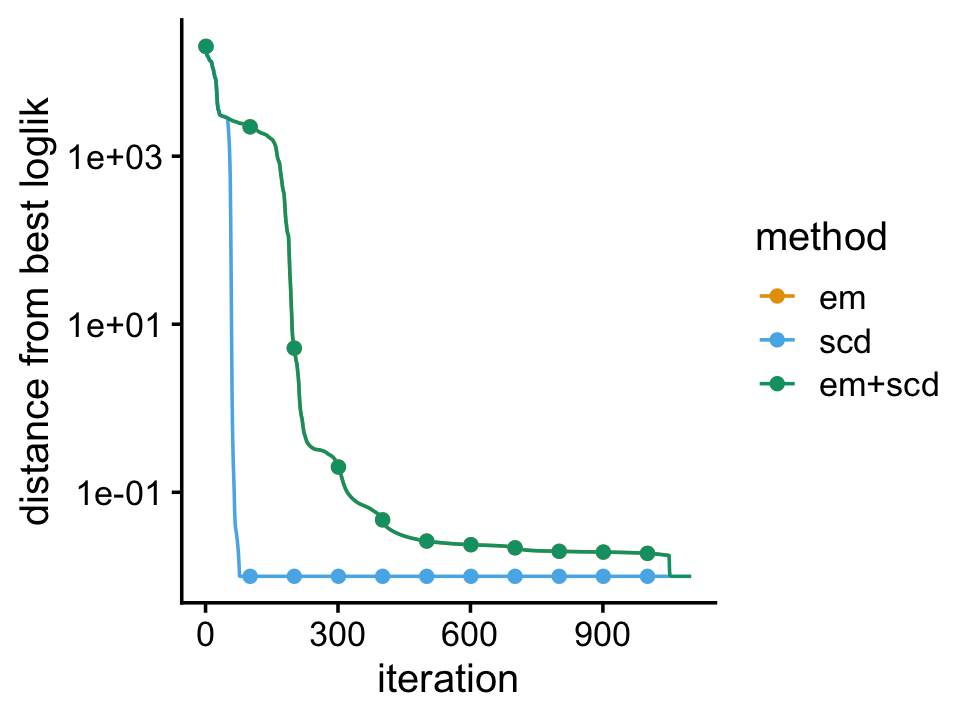
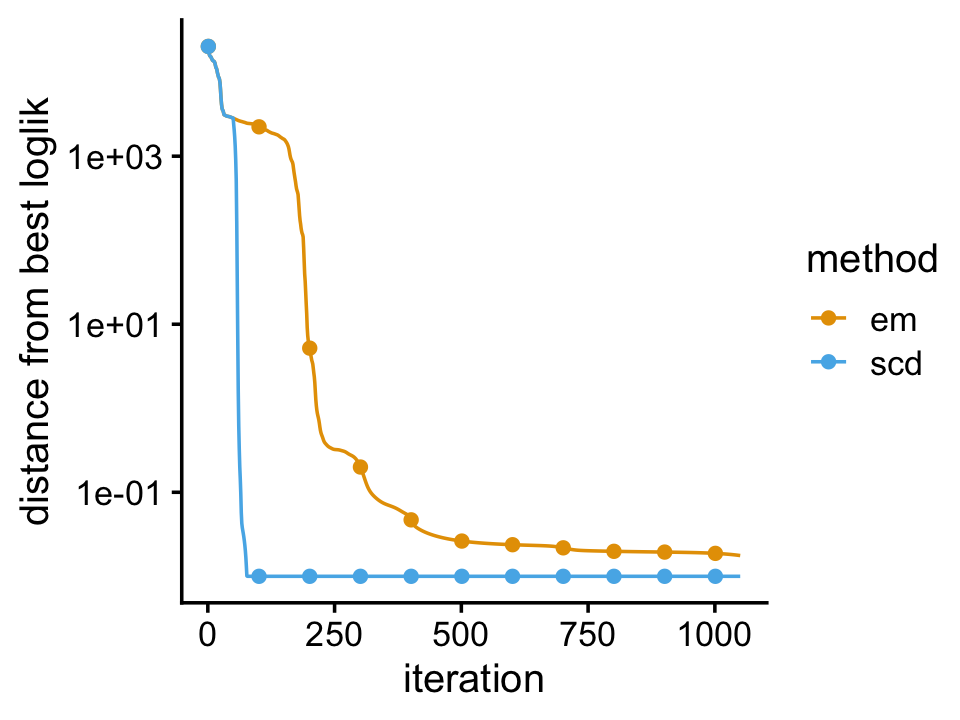
Revised the simulations slightly.

diff --git a/docs/smallsim.html b/docs/smallsim.html
@@ -414,16 +414,16 @@ This reproducible <a href="http://rmarkdown.rstudio.com">R Markdown</a> analysis
 <div class="panel panel-default">
 <div class="panel-heading">
 <p class="panel-title">
-<a data-toggle="collapse" data-parent="#workflowr-checks" href="#strongRepositoryversionstrongahrefhttpsgithubcomstephenslabfastTopicsexperimentstreecfc44e5b6578186f8708bea18d2139da12d49c40targetblankcfc44e5a"> <span class="glyphicon glyphicon-ok text-success" aria-hidden="true"></span> <strong>Repository version:</strong> <a href="https://github.com/stephenslab/fastTopics-experiments/tree/cfc44e5b6578186f8708bea18d2139da12d49c40" target="_blank">cfc44e5</a> </a>
+<a data-toggle="collapse" data-parent="#workflowr-checks" href="#strongRepositoryversionstrongahrefhttpsgithubcomstephenslabfastTopicsexperimentstree1a59342981f0e27b6ff1414acb0dd56739cd13fdtargetblank1a59342a"> <span class="glyphicon glyphicon-ok text-success" aria-hidden="true"></span> <strong>Repository version:</strong> <a href="https://github.com/stephenslab/fastTopics-experiments/tree/1a59342981f0e27b6ff1414acb0dd56739cd13fd" target="_blank">1a59342</a> </a>
 </p>
 </div>
[2 lines of base64/hex data omitted]
 <div class="panel-body">
 <p>
 Great! You are using Git for version control. Tracking code development and connecting the code version to the results is critical for reproducibility.
 </p>
 <p>
-The results in this page were generated with repository version <a href="https://github.com/stephenslab/fastTopics-experiments/tree/cfc44e5b6578186f8708bea18d2139da12d49c40" target="_blank">cfc44e5</a>. See the <em>Past versions</em> tab to see a history of the changes made to the R Markdown and HTML files.
+The results in this page were generated with repository version <a href="https://github.com/stephenslab/fastTopics-experiments/tree/1a59342981f0e27b6ff1414acb0dd56739cd13fd" target="_blank">1a59342</a>. See the <em>Past versions</em> tab to see a history of the changes made to the R Markdown and HTML files.
 </p>
 <p>
 Note that you need to be careful to ensure that all relevant files for the analysis have been committed to Git prior to generating the results (you can use <code>wflow_publish</code> or <code>wflow_git_commit</code>). workflowr only checks the R Markdown file, but you know if there are other scripts or data files that it depends on. Below is the status of the Git repository when the results were generated:
@@ -471,6 +471,40 @@ Message
 </tr>
 </thead>
 <tbody>
+<tr>
+<td>
+Rmd
+</td>
+<td>
+<a href="https://github.com/stephenslab/fastTopics-experiments/blob/1a59342981f0e27b6ff1414acb0dd56739cd13fd/analysis/smallsim.Rmd" target="_blank">1a59342</a>
+</td>
+<td>
+Peter Carbonetto
+</td>
+<td>
+2021-03-05
+</td>
+<td>
+workflowr::wflow_publish(“smallsim.Rmd”)
+</td>
+</tr>
+<tr>
+<td>
+html
+</td>
+<td>
+<a href="https://rawcdn.githack.com/stephenslab/fastTopics-experiments/ffad4713d65648d04dd584a5153ef38fc195ed81/docs/smallsim.html" target="_blank">ffad471</a>
+</td>
+<td>
+Peter Carbonetto
+</td>
+<td>
+2021-03-05
+</td>
+<td>
+Build site.
+</td>
+</tr>
 <tr>
 <td>
 Rmd
@@ -612,21 +646,55 @@ X &lt;- simulate_multinom_counts(L,F,s)</code></pre>
 <p><em>Add text here.</em></p>
 <pre class="r"><code>fit2 &lt;- fit_poisson_nmf(X,fit0 = fit0,numiter = 1000,method = &quot;scd&quot;,
                         control = list(extrapolate = FALSE,numiter = 4))</code></pre>
-<pre class="r"><code>fit3 &lt;- fit_poisson_nmf(X,fit0 = fit1,numiter = 50,method = &quot;scd&quot;,
-                        control = list(extrapolate = FALSE,numiter = 4))</code></pre>
 <p><em>Add text here.</em></p>
 <pre class="r"><code>fit1 &lt;- poisson2multinom(fit1)
 fit2 &lt;- poisson2multinom(fit2)
-fit3 &lt;- poisson2multinom(fit3)
-plot_progress(list(em = fit1,scd = fit2,&quot;em+scd&quot; = fit3),
-              x = &quot;iter&quot;,add.point.every = 100)</code></pre>
+plot_progress(list(em = fit1,scd = fit2),x = &quot;iter&quot;,add.point.every = 100)</code></pre>
 <p><img src="figure/smallsim.Rmd/plot-progress-1-1.png" width="480" style="display: block; margin: auto;" /></p>
+<p>
+<button type="button" class="btn btn-default btn-xs btn-workflowr btn-workflowr-fig" data-toggle="collapse" data-target="#fig-plot-progress-1-1">
+Past versions of plot-progress-1-1.png
+</button>
+</p>
+<div id="fig-plot-progress-1-1" class="collapse">
+<div class="table-responsive">
+<table class="table table-condensed table-hover">
+<thead>
+<tr>
+<th>
+Version
+</th>
+<th>
+Author
+</th>
+<th>
+Date
+</th>
+</tr>
+</thead>
+<tbody>
+<tr>
+<td>
+<a href="https://github.com/stephenslab/fastTopics-experiments/blob/ffad4713d65648d04dd584a5153ef38fc195ed81/docs/figure/smallsim.Rmd/plot-progress-1-1.png" target="_blank">ffad471</a>
+</td>
+<td>
+Peter Carbonetto
+</td>
+<td>
+2021-03-05
+</td>
+</tr>
+</tbody>
+</table>
+</div>
+</div>
 </div>
 <div id="correlated-topics-scenario" class="section level2">
 <h2>Correlated topics scenario</h2>
 <p><em>Add text here.</em></p>
-<pre class="r"><code>S[5,6] &lt;- 9
-S[6,5] &lt;- 9
+<pre class="r"><code>set.seed(1)
+S[5,6] &lt;- 10
+S[6,5] &lt;- 10
 L &lt;- simulate_loadings(n,k,S)
 X &lt;- simulate_multinom_counts(L,F,s)
 X &lt;- X[,colSums(X &gt; 0) &gt; 0]</code></pre>
@@ -634,19 +702,58 @@ X &lt;- X[,colSums(X &gt; 0) &gt; 0]</code></pre>
 <p><em>Add text here.</em></p>
 <pre class="r"><code>fit0 &lt;- fit_poisson_nmf(X,k,numiter = 50,method = &quot;em&quot;,
                         control = list(extrapolate = FALSE,numiter = 4))
-fit1 &lt;- fit_poisson_nmf(X,fit0 = fit0,numiter = 1000,method = &quot;em&quot;,
+fit1 &lt;- fit_poisson_nmf(X,fit0 = fit0,numiter = 800,method = &quot;em&quot;,
                         control = list(extrapolate = FALSE,numiter = 4))
 fit2 &lt;- fit_poisson_nmf(X,fit0 = fit0,numiter = 1000,method = &quot;scd&quot;,
                         control = list(extrapolate = FALSE,numiter = 4))
-fit3 &lt;- fit_poisson_nmf(X,fit0 = fit1,numiter = 50,method = &quot;scd&quot;,
+fit3 &lt;- fit_poisson_nmf(X,fit0 = fit1,numiter = 200,method = &quot;scd&quot;,
+                        control = list(extrapolate = FALSE,numiter = 4))
+fit1 &lt;- fit_poisson_nmf(X,fit0 = fit1,numiter = 200,method = &quot;scd&quot;,
                         control = list(extrapolate = FALSE,numiter = 4))</code></pre>
 <p><em>Add text here.</em></p>
 <pre class="r"><code>fit1 &lt;- poisson2multinom(fit1)
 fit2 &lt;- poisson2multinom(fit2)
 fit3 &lt;- poisson2multinom(fit3)
-plot_progress(list(em = fit1,scd = fit2,&quot;em+scd&quot; = fit3),
+plot_progress(list(em = fit1,scd = fit2,&quot;scd+em&quot; = fit3),
               x = &quot;iter&quot;,add.point.every = 100)</code></pre>
 <p><img src="figure/smallsim.Rmd/plot-progress-2-1.png" width="480" style="display: block; margin: auto;" /></p>
+<p>
+<button type="button" class="btn btn-default btn-xs btn-workflowr btn-workflowr-fig" data-toggle="collapse" data-target="#fig-plot-progress-2-1">
+Past versions of plot-progress-2-1.png
+</button>
+</p>
+<div id="fig-plot-progress-2-1" class="collapse">
+<div class="table-responsive">
+<table class="table table-condensed table-hover">
+<thead>
+<tr>
+<th>
+Version
+</th>
+<th>
+Author
+</th>
+<th>
+Date
+</th>
+</tr>
+</thead>
+<tbody>
+<tr>
+<td>
+<a href="https://github.com/stephenslab/fastTopics-experiments/blob/ffad4713d65648d04dd584a5153ef38fc195ed81/docs/figure/smallsim.Rmd/plot-progress-2-1.png" target="_blank">ffad471</a>
+</td>
+<td>
+Peter Carbonetto
+</td>
+<td>
+2021-03-05
+</td>
+</tr>
+</tbody>
+</table>
+</div>
+</div>
 <br>
 <p>
 <button type="button" class="btn btn-default btn-workflowr btn-workflowr-sessioninfo" data-toggle="collapse" data-target="#workflowr-sessioninfo" style="display: block;">
